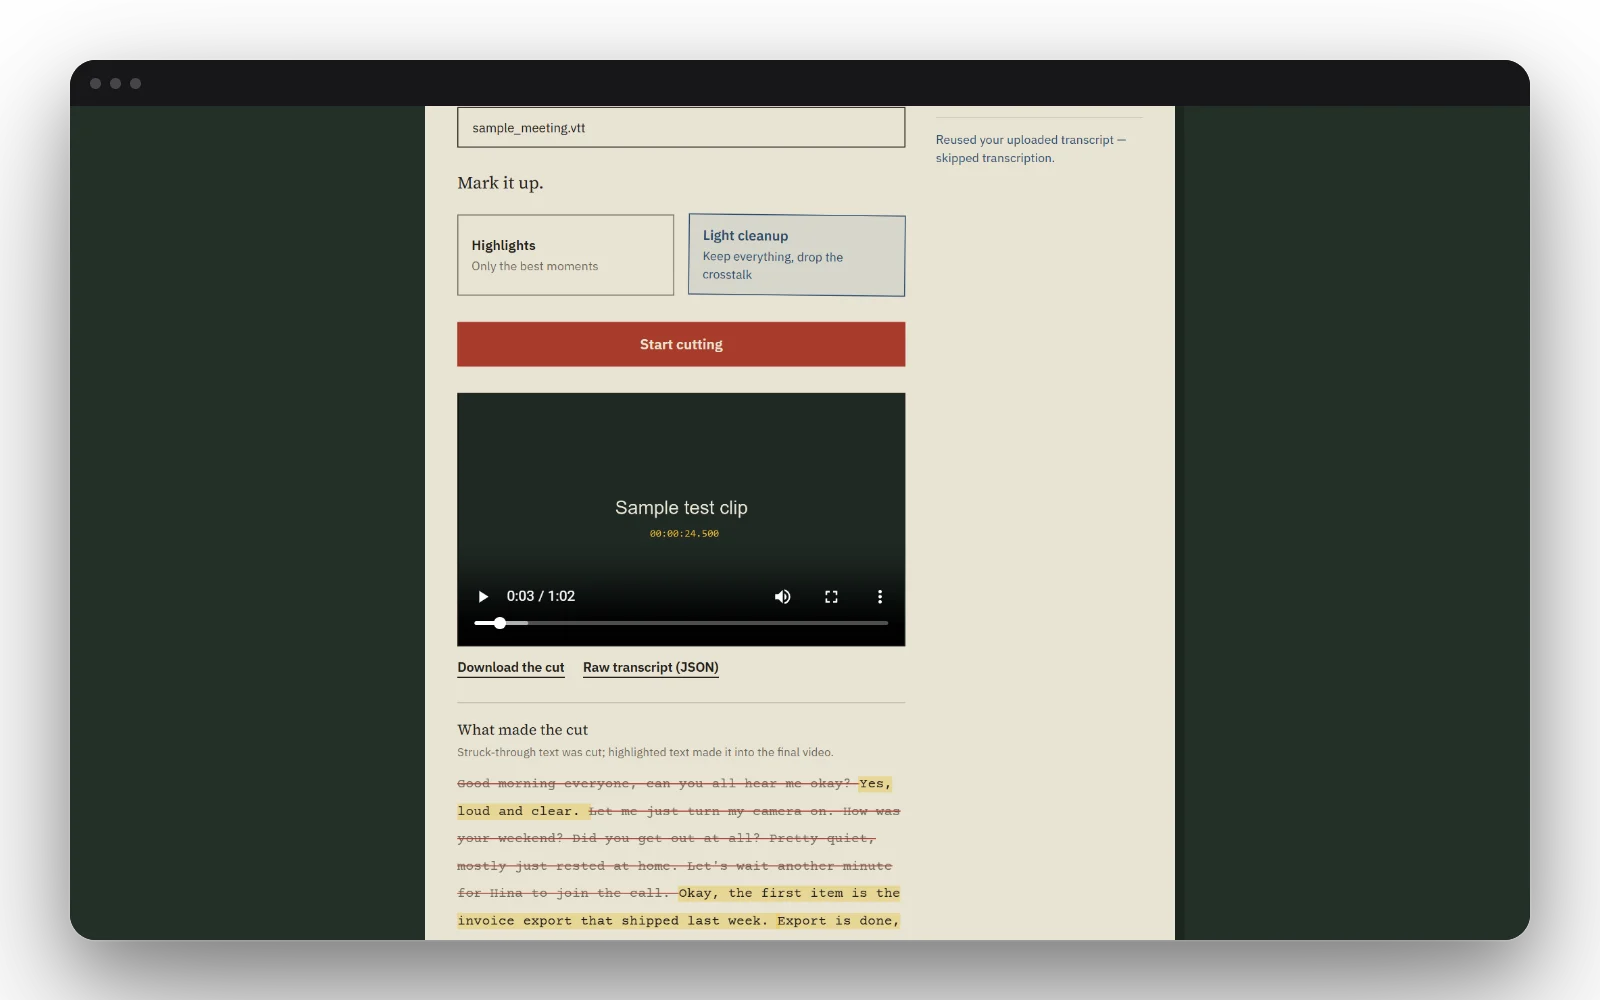
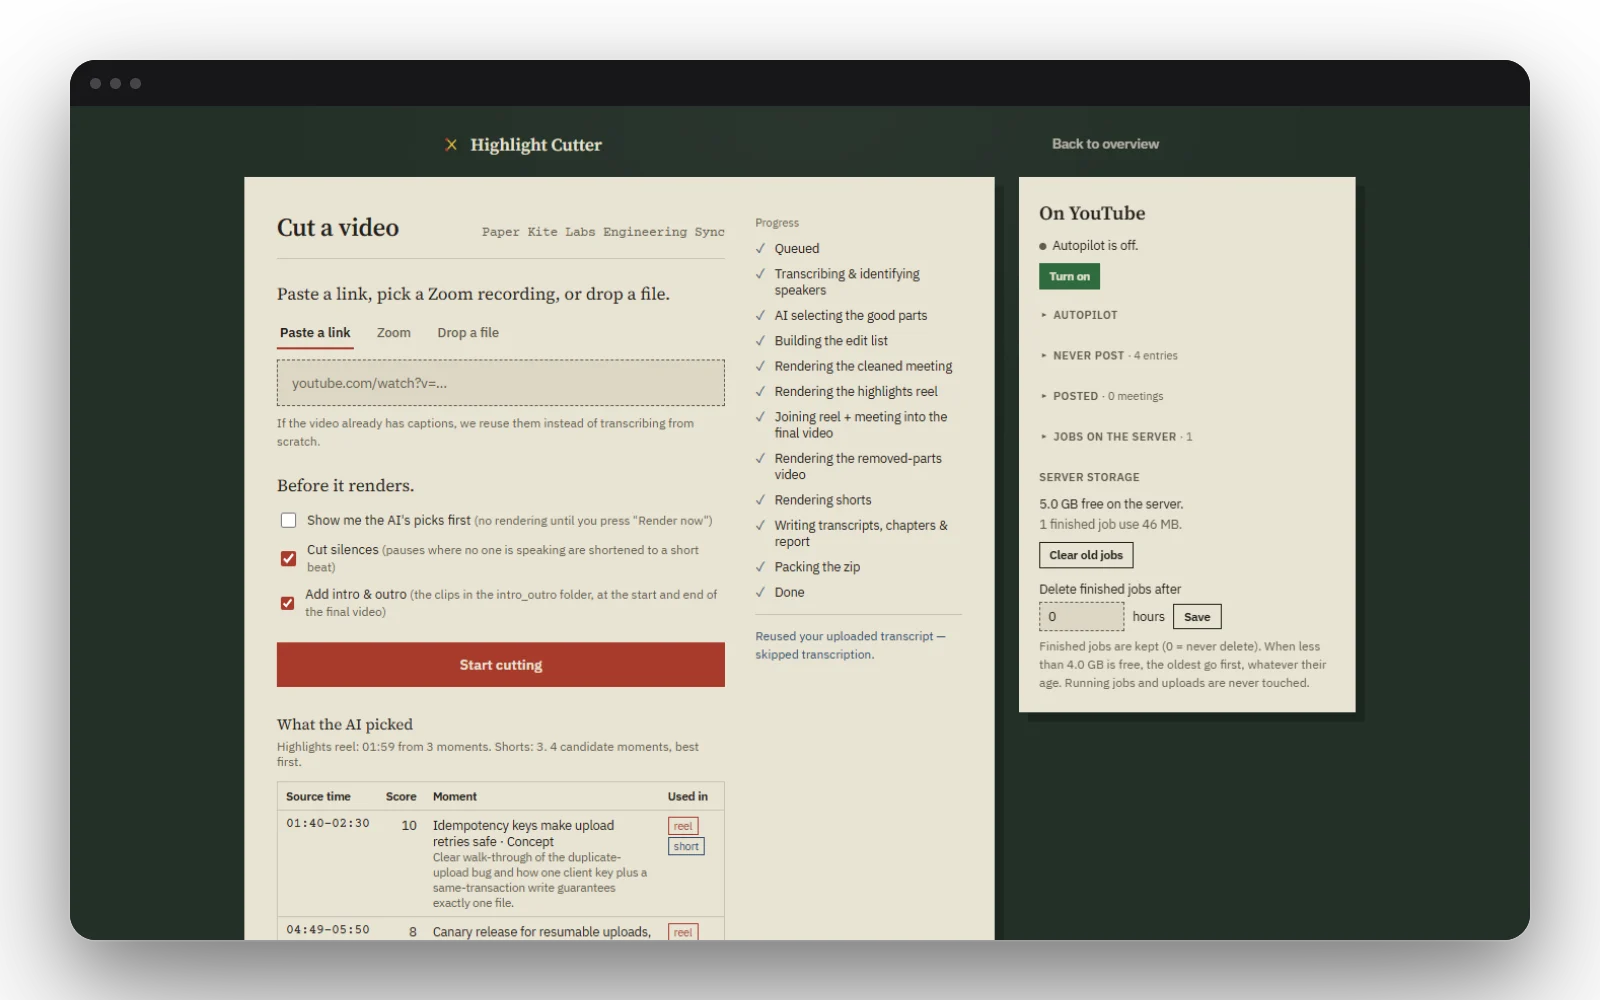
List selected work on the resume
The resume left out the projects, which are the strongest part of it. It now
shows the first six, in the order set in the admin. Also softens a test count
that couldn't be fully confirmed.

diff --git a/src/components/site/resume-page.tsx b/src/components/site/resume-page.tsx
@@ -1,8 +1,13 @@
 import { Download } from 'lucide-react';
 import type { CSSProperties, ReactNode } from 'react';
 import { safeHref, type Content } from '@/lib/content/schema';
+import { publishedProjects } from '@/lib/content/select';
+import { SiteLink } from './site-link';
 import { PrintButton } from './small-client';
 import './inner-pages.css';
+
+/** Keeps the printed resume short. The order comes from the project list in the admin. */
+const RESUME_PROJECTS = 6;
 
 /** Places an element in the entrance sequence. The entrance is plain CSS, so printing and missing scripts can't interrupt it. */
 const enter = (step: number) => ({ '--enter': step }) as CSSProperties;
@@ -21,6 +26,7 @@ export function ResumePage({ content }: { content: Content }) {
   const { profile, experience, skills, about } = content;
   const contact = [profile.email, profile.phone, profile.location].filter(Boolean);
   const resumeHref = safeHref(profile.resumeFile);
+  const work = publishedProjects(content).slice(0, RESUME_PROJECTS);
 
   return (
     <div className="resume-sheet sheet-hero pb-[clamp(56px,7vw,104px)] pt-[clamp(120px,16vh,168px)]">
@@ -69,6 +75,24 @@ export function ResumePage({ content }: { content: Content }) {
                 </li>
               ))}
             </ol>
+          </ResumeSection>
+        ) : null}
+
+        {work.length ? (
+          <ResumeSection title="Selected work" step={5}>
+            <ul className="grid gap-5">
+              {work.map((project) => (
+                <li key={project.id}>
+                  <div className="flex flex-wrap items-baseline justify-between gap-x-6">
+                    <SiteLink href={`/work/${project.slug}`} className="font-semibold tracking-[-0.012em] hover:underline">
+                      {project.title}
+                    </SiteLink>
+                    <p className="t-small tabular-nums text-ink-3">{project.year}</p>
+                  </div>
+                  <p className="muted mt-1 max-w-[46em] text-pretty">{project.summary}</p>
+                </li>
+              ))}
+            </ul>
           </ResumeSection>
         ) : null}
 

diff --git a/src/lib/content/seed-projects.ts b/src/lib/content/seed-projects.ts
@@ -1192,7 +1192,7 @@ export const seedProjects: Project[] = [
           "Alarms run on a custom Kotlin engine with a ring service, scheduler and boot receiver, connected to Dart through a MethodChannel and an EventChannel.",
           "Verification strips Arabic vowel marks, compares the text with the bundled Tanzil verses, and accepts partial-verse matches above a minimum length.",
           "The chat and translation client supports both Gemini and Anthropic, and the public build ships with no key, so users paste their own.",
-          "There are 28 test files with about 180 test cases, and a FakeNativeBridge stands in for the Android side."
+          "There are about 180 test cases, and a FakeNativeBridge stands in for the Android side."
         ]
       }
     ]
